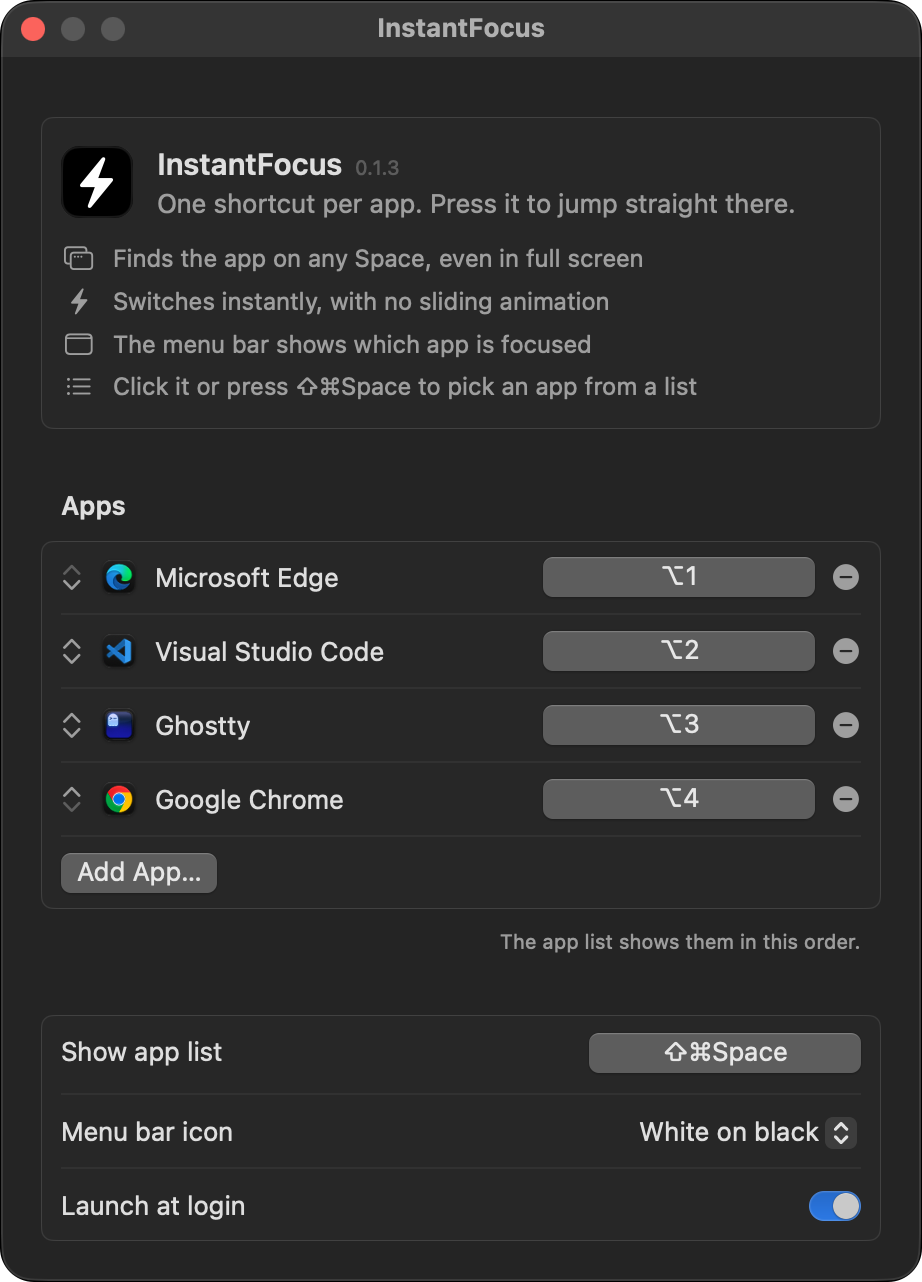
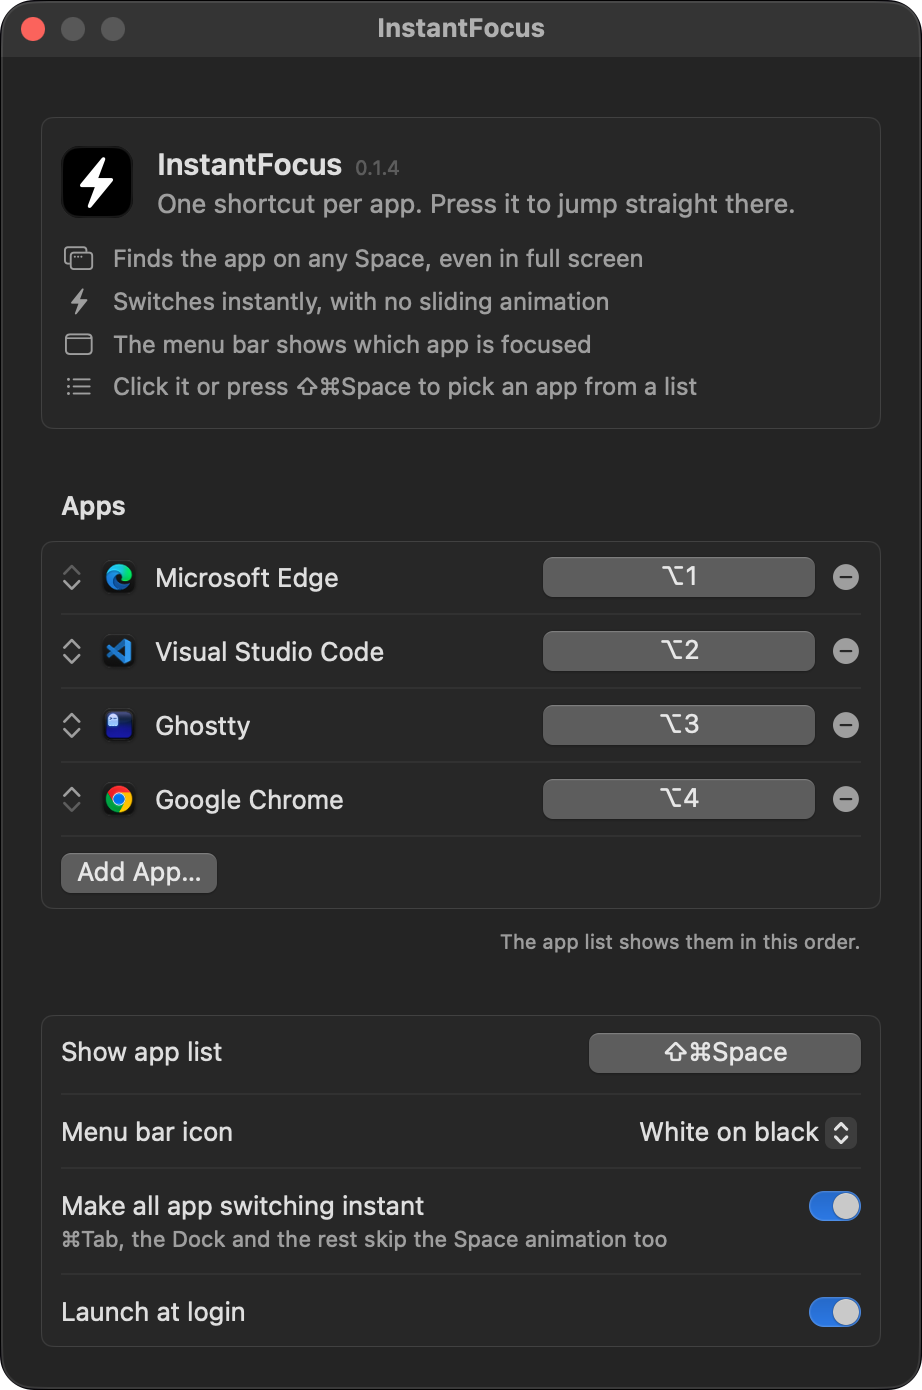
README: Settings screenshot from v0.1.4

diff --git a/README.md b/README.md
@@ -14,7 +14,7 @@ whether its window is on the current Space, another Space, or full screen. No sl
 crossfade. That's all it does: trackpad swipes and other Space switching stay as macOS has them.
 
 <p align="center">
-  <img src="docs/screenshots/settings-dark.png" width="461" align="top" alt="Settings: your apps with their shortcuts (reorderable), the app list shortcut, menu bar icon style, launch at login">
+  <img src="docs/screenshots/settings-dark.png" width="461" align="top" alt="Settings: your apps with their shortcuts (reorderable), the app list shortcut, menu bar icon style, instant switching for everything, launch at login">
   <img src="docs/screenshots/app-list-dark.png" width="217" align="top" alt="The app list: your apps with their shortcuts, plus Settings and Quit">
 </p>
 
